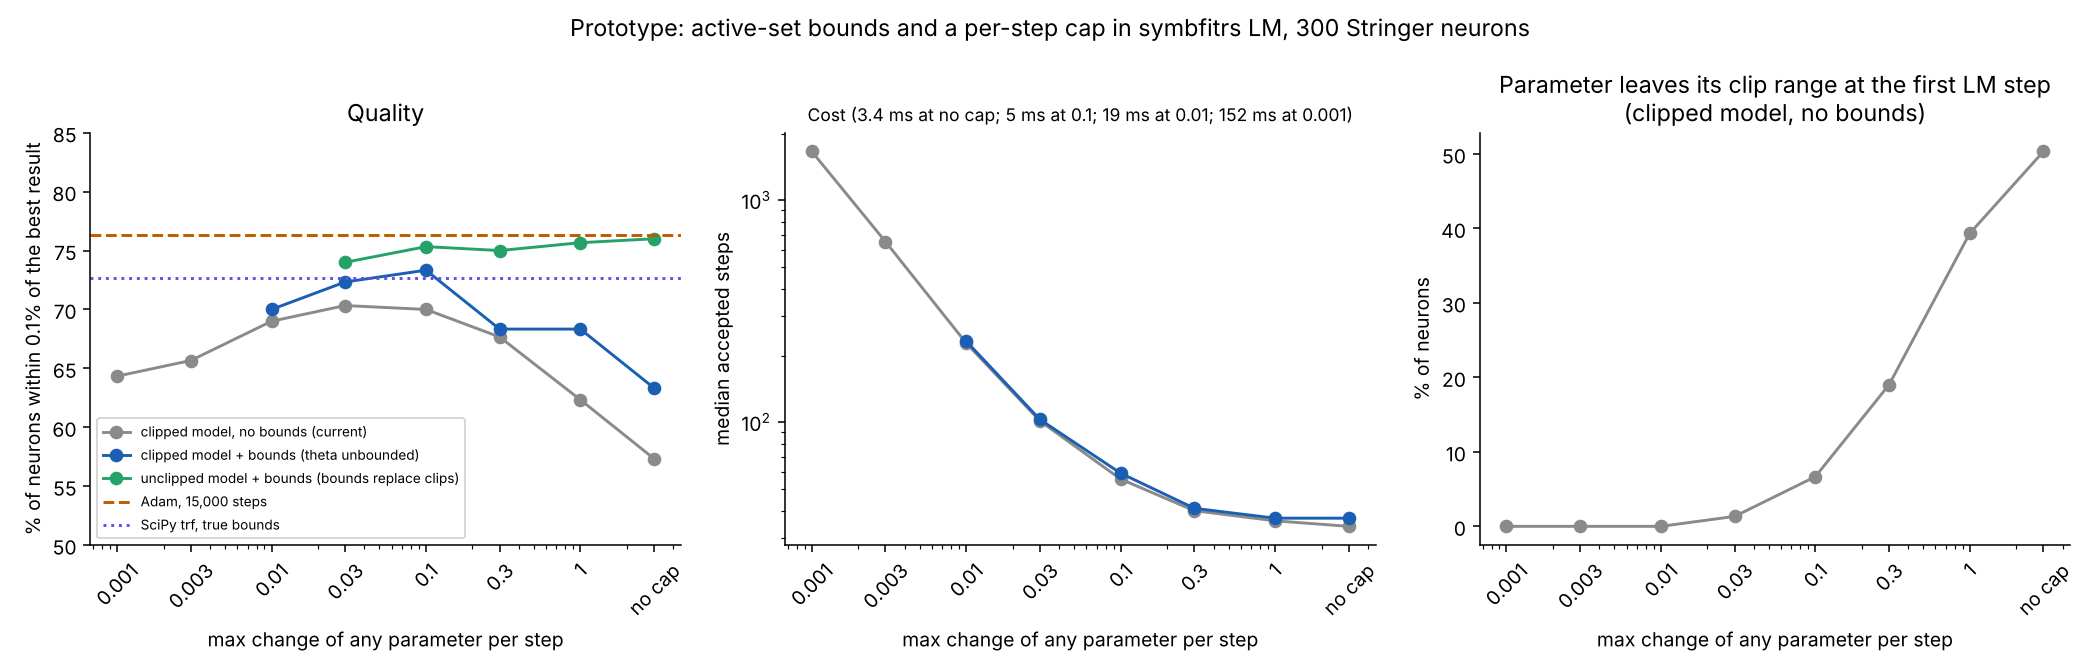
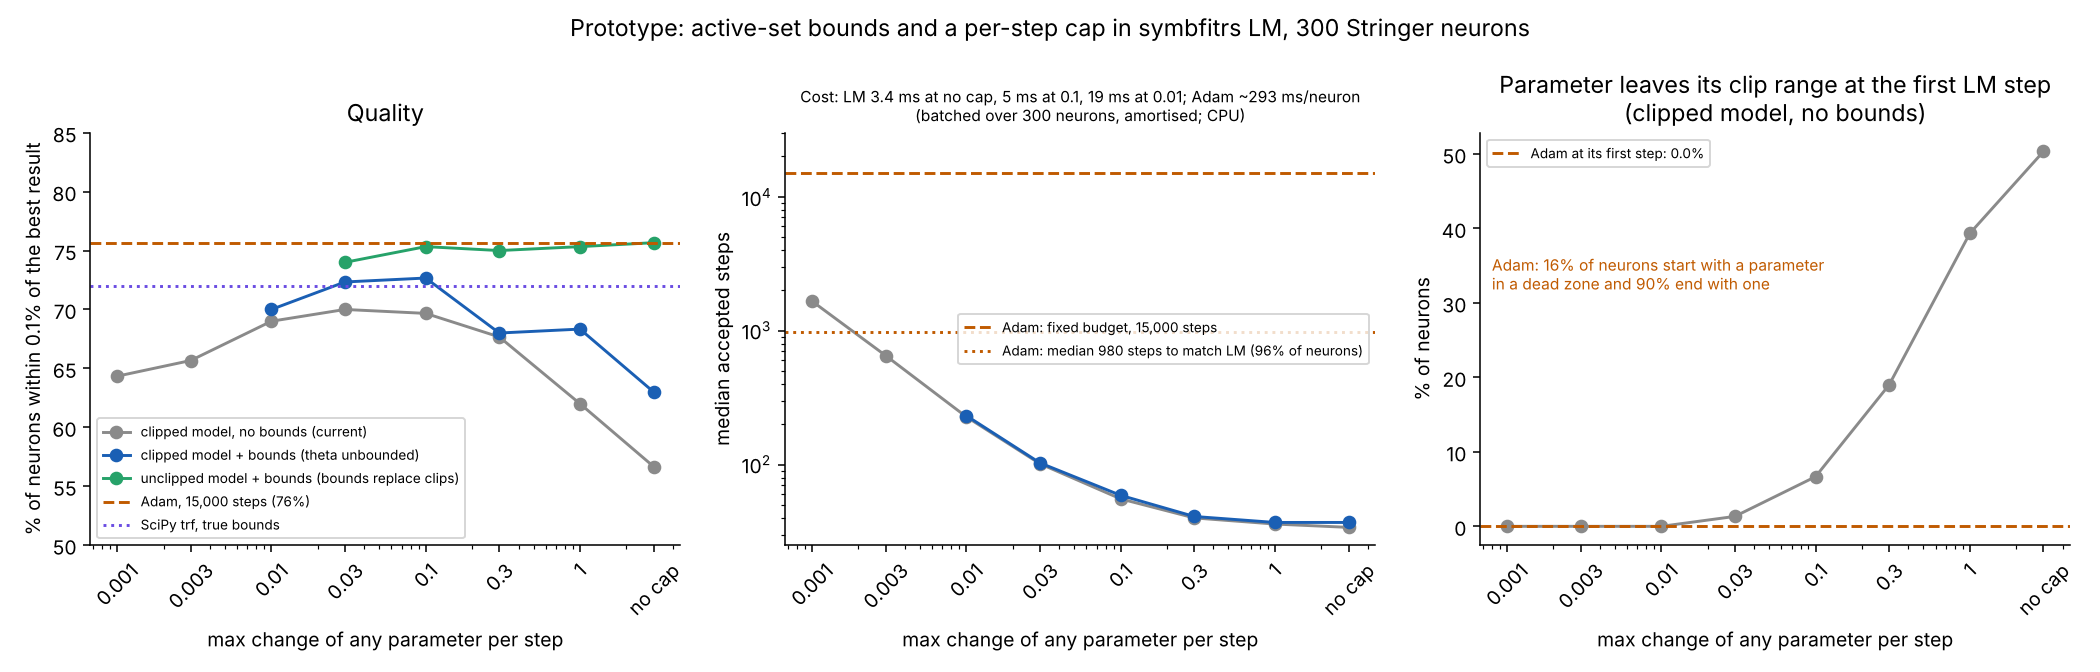
Add Adam statistics to the bounds / step-cap summary figure
Claude-Session: https://claude.ai/code/session_018erzbnudvucEzrRvouocFo

diff --git a/analysis/summarize_bounds_step_cap.py b/analysis/summarize_bounds_step_cap.py
@@ -3,6 +3,20 @@ c=np.load('analysis/bounds_step_cap.npz',allow_pickle=True); n=[str(x) for x in 
 u=np.load('analysis/bounds_unclipped_rust.npz',allow_pickle=True); un=[str(x) for x in u['names']]
 b0=np.load('analysis/bounds_experiments.npz',allow_pickle=True); n0=[str(x) for x in b0['names']]
 w=lambda L: 100*np.mean(L<=best*1.001)
+# ---- Adam statistics (same neurons, same start, same scoring)
+import json, torch, sys; sys.path.insert(0,'analysis')
+from _neuro import trials, ROWS, gen_gauss
+dg=np.load('analysis/diagnosis.npz',allow_pickle=True); rs=json.load(open('analysis/reliability_speed.json'))
+best=np.minimum(best,u['L'].min(0))
+cells=[trials(r) for r in ROWS]; TH=np.stack([x[0] for x in cells]); TR=np.stack([x[1][0].mean(1) for x in cells])
+LO=np.array([0,0,0,0,.1,.1,.1,.1,.1,.1]); HI=np.array([2*np.pi,np.inf,np.inf,np.inf]+[2*np.pi]*4+[4.,4.])
+dead=lambda P: ((P[:,1:]<LO[1:]-1e-12)|(P[:,1:]>HI[1:]+1e-12)).any(1)
+P=torch.tensor(dg['P0'].astype(np.float32)).requires_grad_(); opt=torch.optim.Adam([P],lr=1e-3)
+th32=torch.tensor(TH,dtype=torch.float32); y32=torch.tensor(TR,dtype=torch.float32); d0=dead(P.detach().numpy())
+opt.zero_grad(); (10*((gen_gauss(th32,P).squeeze(0)-y32)**2).mean(1).mean()).backward(); P.grad.nan_to_num_(0,0,0); opt.step(); d1=dead(P.detach().numpy())
+adam_step1=100*np.mean(d1&~d0); adam_end=100*np.mean(dead(dg['P_a'])); adam_start=100*np.mean(d0)
+match=np.array(rs['adam_steps_to_match_sym']); adam_match=np.median(match[match>0]); adam_ms=1e3*rs['baseline']['adam_secs']/300
+print(f'Adam: within 0.1% {w(La):.0f}%; first-step dead-zone entry {adam_step1:.1f}% (dead at start {adam_start:.0f}%); dead at the end {adam_end:.0f}%; median {adam_match:.0f} steps to match LM ({100*np.mean(match>0):.0f}% of neurons do); {adam_ms:.0f} ms/neuron amortised')
 caps=[1e-3,3e-3,1e-2,3e-2,0.1,0.3,1.0]; INF=3.0
 def curve(prefix,none_label): 
     xs=[];ys=[];st=[];dd=[]
@@ -15,11 +29,13 @@ ux=[0.03,0.1,0.3,1.0,INF]; uk=['unclipped model, bounds + cap 0.03','unclipped m
 uy=[w(u['L'][un.index(k)]) for k in uk]
 fig,ax=plt.subplots(1,3,figsize=(15,4.8))
 ax[0].plot(a[0],a[1],'o-',color='#8a8a8a',label='clipped model, no bounds (current)'); ax[0].plot(bq[0],bq[1],'o-',color='#1a5fb4',label='clipped model + bounds (theta unbounded)'); ax[0].plot(ux,uy,'o-',color='#26a269',label='unclipped model + bounds (bounds replace clips)')
-ax[0].axhline(100*np.mean(La<=best*1.001),color='#c05a00',ls='--',label='Adam, 15,000 steps'); ax[0].axhline(w(b0['L'][n0.index('SciPy trf, true bounds')]),color='#6a4ce2',ls=':',label='SciPy trf, true bounds')
+ax[0].axhline(100*np.mean(La<=best*1.001),color='#c05a00',ls='--',label=f'Adam, 15,000 steps ({w(La):.0f}%)'); ax[0].axhline(w(b0['L'][n0.index('SciPy trf, true bounds')]),color='#6a4ce2',ls=':',label='SciPy trf, true bounds')
 ax[0].set_xscale('log'); ax[0].set_xticks(caps+[INF]); ax[0].set_xticklabels([f'{x:g}' for x in caps]+['no cap'],rotation=45); ax[0].set_ylabel('% of neurons within 0.1% of the best result'); ax[0].set_xlabel('max change of any parameter per step'); ax[0].legend(fontsize=7,loc='lower left'); ax[0].set_title('Quality'); ax[0].set_ylim(50,85)
 ax[1].plot(a[0],a[2],'o-',color='#8a8a8a'); ax[1].plot(bq[0],bq[2],'o-',color='#1a5fb4'); ax[1].set_xscale('log'); ax[1].set_yscale('log'); ax[1].set_xticks(caps+[INF]); ax[1].set_xticklabels([f'{x:g}' for x in caps]+['no cap'],rotation=45)
-ax[1].set_ylabel('median accepted steps'); ax[1].set_xlabel('max change of any parameter per step'); ax[1].set_title('Cost (3.4 ms at no cap; 5 ms at 0.1; 19 ms at 0.01; 152 ms at 0.001)',fontsize=9)
-ax[2].plot(a[0],a[3],'o-',color='#8a8a8a'); ax[2].set_xscale('log'); ax[2].set_xticks(caps+[INF]); ax[2].set_xticklabels([f'{x:g}' for x in caps]+['no cap'],rotation=45); ax[2].set_ylabel('% of neurons'); ax[2].set_xlabel('max change of any parameter per step')
+ax[1].axhline(15000,color='#c05a00',ls='--',label='Adam: fixed budget, 15,000 steps'); ax[1].axhline(adam_match,color='#c05a00',ls=':',label=f'Adam: median {adam_match:.0f} steps to match LM ({100*np.mean(match>0):.0f}% of neurons)')
+ax[1].set_ylim(top=3e4); ax[1].legend(fontsize=7,loc='center right'); ax[1].set_ylabel('median accepted steps'); ax[1].set_xlabel('max change of any parameter per step'); ax[1].set_title(f'Cost: LM 3.4 ms at no cap, 5 ms at 0.1, 19 ms at 0.01; Adam ~{adam_ms:.0f} ms/neuron\n(batched over 300 neurons, amortised; CPU)',fontsize=8)
+ax[2].plot(a[0],a[3],'o-',color='#8a8a8a'); ax[2].set_xscale('log'); ax[2].set_xticks(caps+[INF]); ax[2].set_xticklabels([f'{x:g}' for x in caps]+['no cap'],rotation=45); ax[2].axhline(adam_step1,color='#c05a00',ls='--',label=f'Adam at its first step: {adam_step1:.1f}%'); ax[2].text(0.02,0.62,f'Adam: {adam_start:.0f}% of neurons start with a parameter\nin a dead zone and {adam_end:.0f}% end with one',transform=ax[2].transAxes,fontsize=8,color='#c05a00')
+ax[2].legend(fontsize=7,loc='upper left'); ax[2].set_ylabel('% of neurons'); ax[2].set_xlabel('max change of any parameter per step')
 ax[2].set_title('Parameter leaves its clip range at the first LM step\n(clipped model, no bounds)')
 for x in ax: x.spines[['top','right']].set_visible(False)
 fig.suptitle('Prototype: active-set bounds and a per-step cap in symbfitrs LM, 300 Stringer neurons',fontsize=12); plt.tight_layout(); plt.savefig('analysis/bounds_step_cap.png',dpi=140); print('ok')
